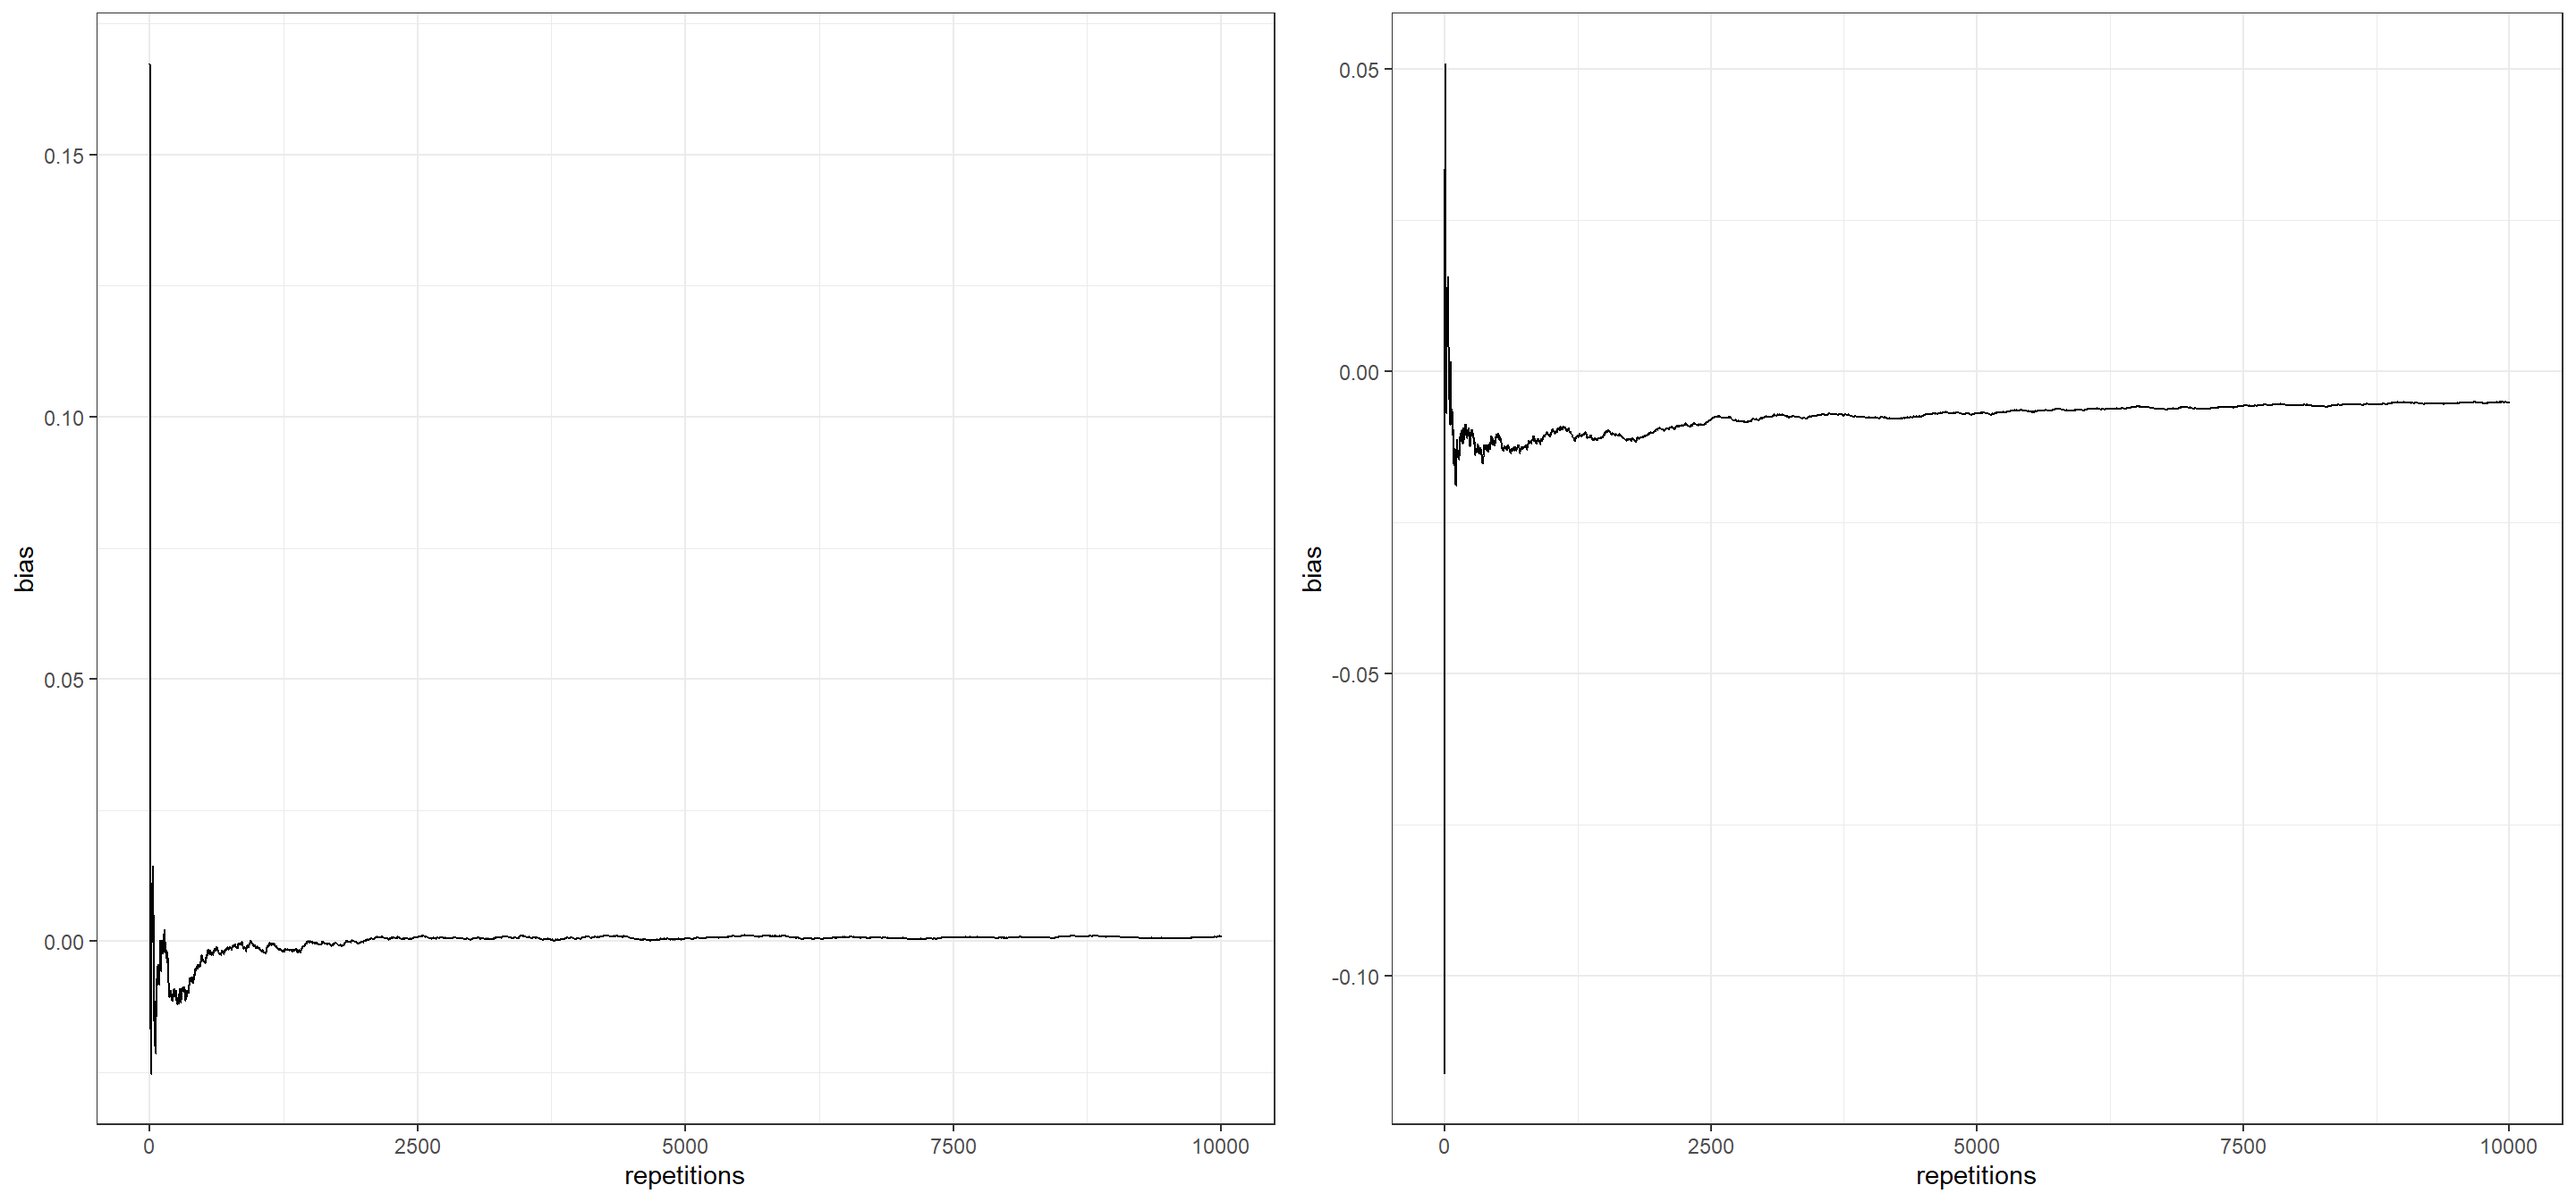
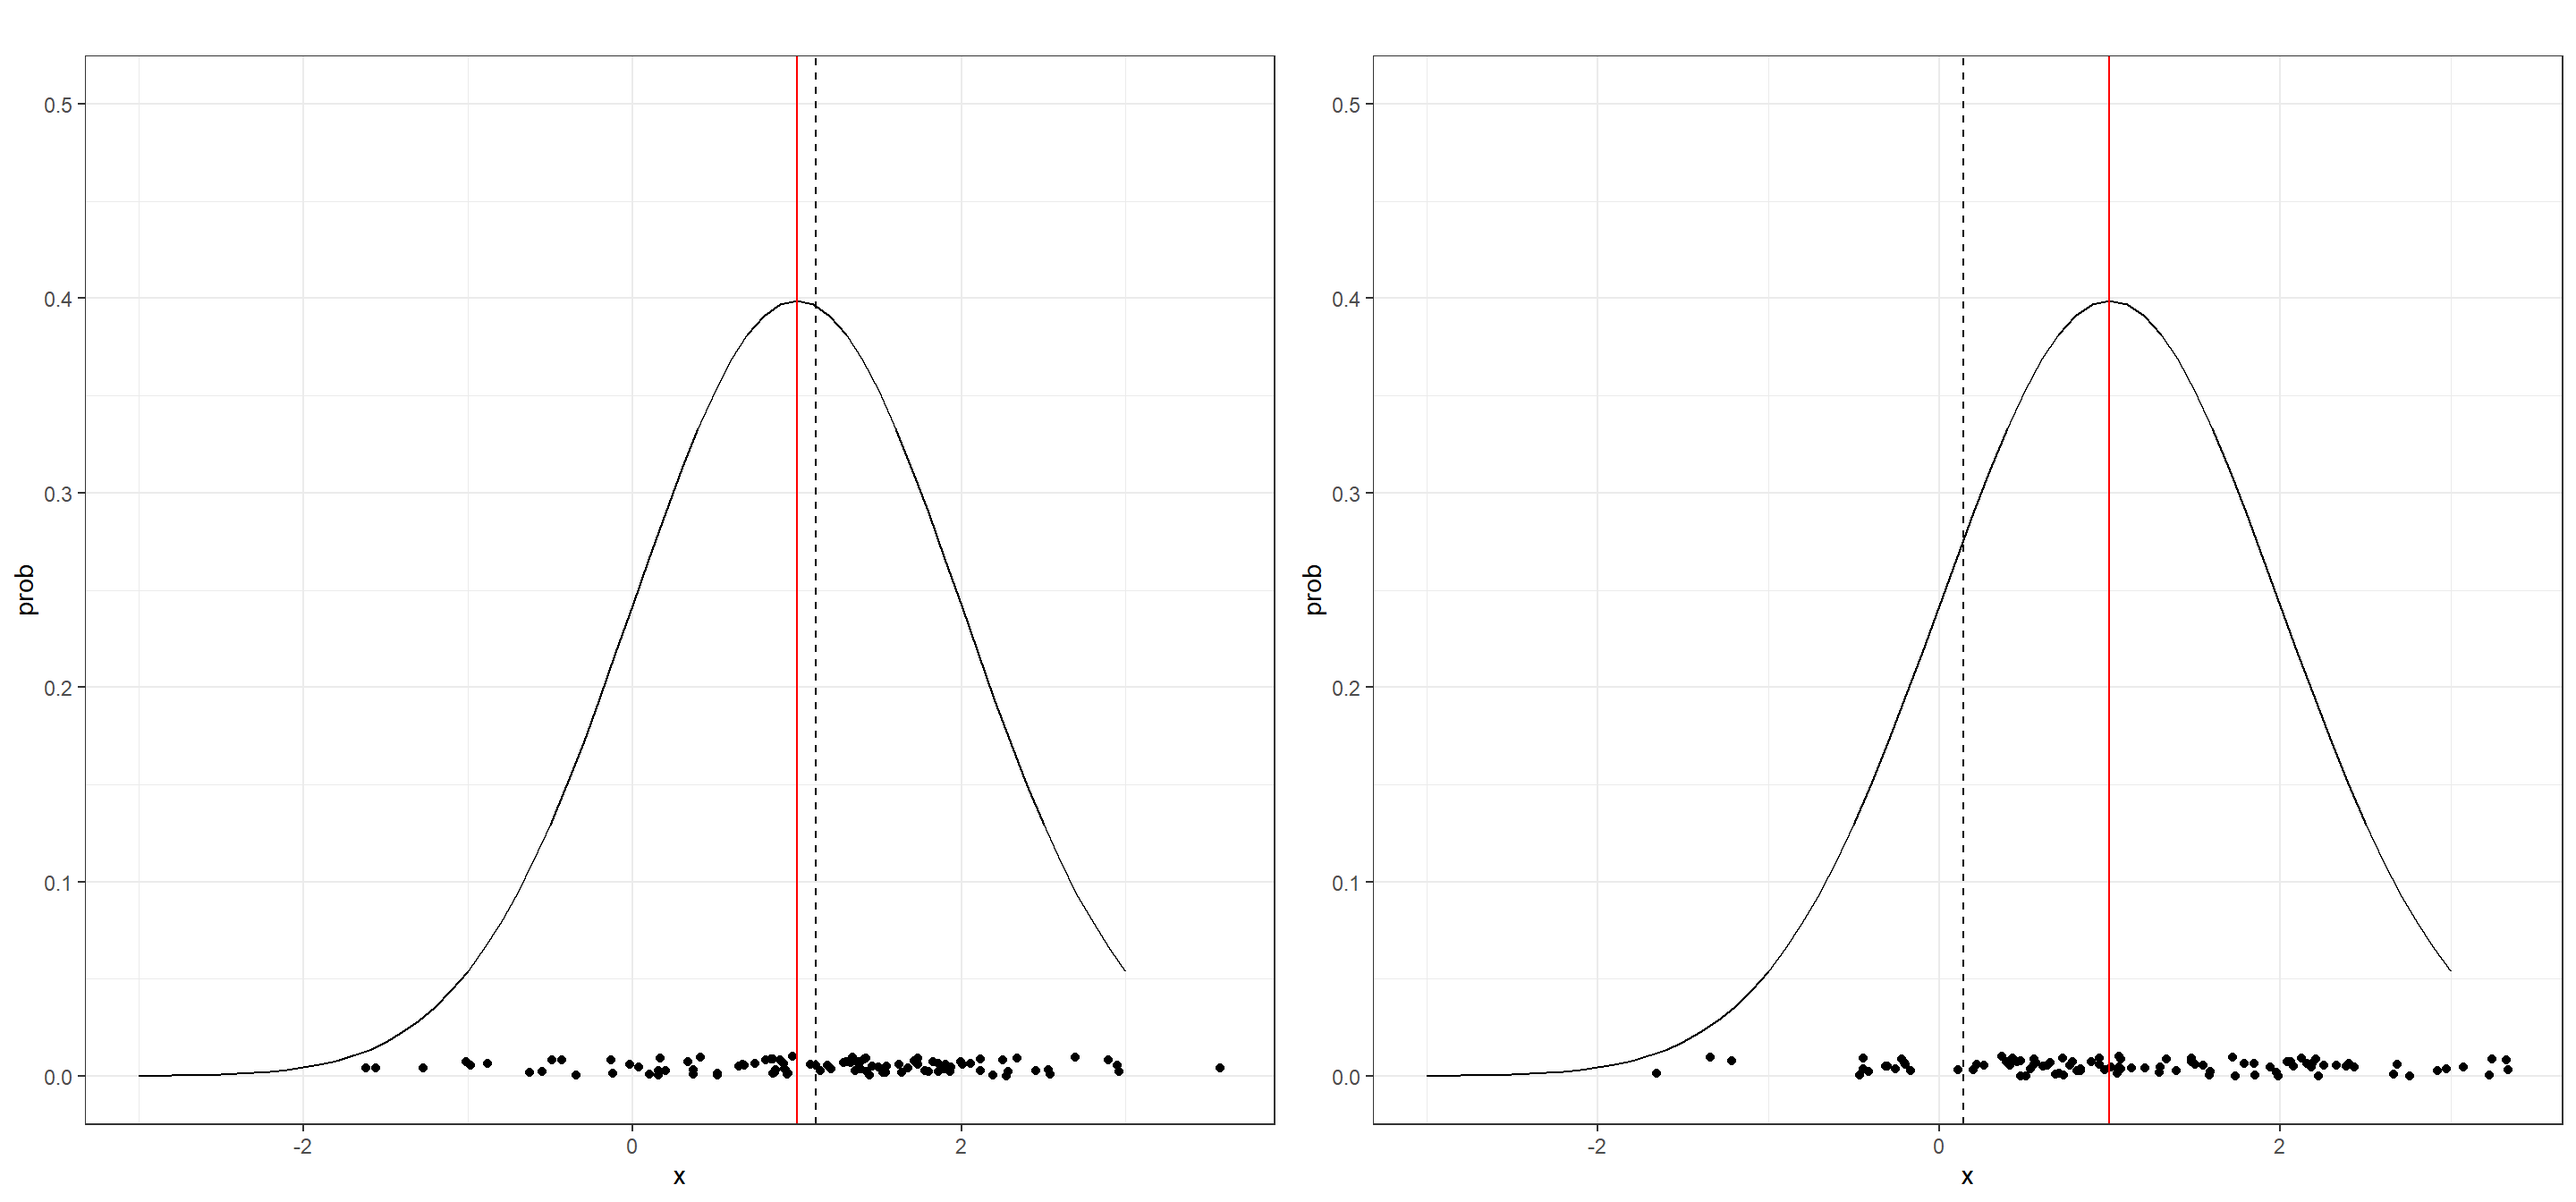
clase04

diff --git a/XS3310-I24_04.html b/XS3310-I24_04.html
@@ -501,11 +501,11 @@ f_{X_{\left(1\right)}}\left(x\right) = n\left[1-F_{X}\left(x\right)\right]^{n-1}
 </div>
 </div>
 
-<img data-src="XS3310-I24_04_files/figure-revealjs/unnamed-chunk-1-1.png" style="width:100.0%" class="r-stretch"></section>
+<img data-src="XS3310-I24_04_files/figure-revealjs/unnamed-chunk-2-1.png" style="width:100.0%" class="r-stretch"></section>
 <section id="sesgo-asintótico" class="slide level2">
 <h2>Sesgo asintótico</h2>
 
-<img data-src="XS3310-I24_04_files/figure-revealjs/unnamed-chunk-2-1.png" width="1440" class="r-stretch"></section>
+<img data-src="XS3310-I24_04_files/figure-revealjs/unnamed-chunk-3-1.png" width="1440" class="r-stretch"></section>
 <section id="error-cuadrático-medio-ecm" class="slide level2">
 <h2>Error Cuadrático Medio (ECM)</h2>
 <p><strong>Definicion:</strong> Error cuadrático medio. Supongamos que <span class="math inline">\(\hat{\theta}\)</span> es un estimador de un parámetro <span class="math inline">\(\theta\)</span>, se define el <em>error cuadrático medio</em> de <span class="math inline">\(\hat{\theta}\)</span>, denotado por <span class="math inline">\(ECM(\hat{\theta}) = E\left[\left(\hat{\theta}-\theta\right)^2\right]\)</span></p>
@@ -582,9 +582,9 @@ Var(\hat{\theta}_{2}) &amp;= Var\left(\frac{5n+1}{5n}X_{(n)}\right) = \frac{\lef
 </section>
 <section id="eficiencia-5" class="slide level2">
 <h2>Eficiencia</h2>
-<p>Podemos apreciar la eficiencia relativa de estos dos estimadores en la Figura 2. Los puntos negros vacios representan a <span class="math inline">\(\hat{\theta}_1\)</span> mientras que los puntos azules rellenos representan a <span class="math inline">\(\hat{\theta}_2\)</span>. Podemos observar como estos segundos tienen puntos en general más próximos al verdadero valor de <span class="math inline">\(\theta\)</span> que los primeros, por lo tanto son relativamente más eficientes.</p>
+<p>En la siguiente figura, se observa <span class="math inline">\(\hat{\theta}_1\)</span> y <span class="math inline">\(\hat{\theta}_2\)</span> calculados de 100 muestras independientes. En dicha simnulación, se supone que <span class="math inline">\(\theta=5\)</span> y <span class="math inline">\(n=45\)</span>. Podemos observar como la eficiencia de los dos estimadores.</p>
 
-<img data-src="figs/eficienciarelativa.jpg" class="r-stretch"></section>
+<img data-src="XS3310-I24_04_files/figure-revealjs/unnamed-chunk-4-1.png" width="672" class="r-stretch"></section>
 <section id="eficiencia-6" class="slide level2">
 <h2>Eficiencia</h2>
 <p>En general, para buscar la eficiencia al estimar un parámetro se requiere determinar el estimador insesgado <span class="math inline">\(\hat{\theta}\)</span> que tiene variancia mínima.</p>
@@ -620,7 +620,7 @@ Var(\hat{\theta}_{2}) &amp;= Var\left(\frac{5n+1}{5n}X_{(n)}\right) = \frac{\lef
 <ol start="2" type="1">
 <li>Sean <span class="math inline">\(X_1, . . . , X_n, X_{n + 1}, . . . , X_{n+m}\)</span> variables aleatorias independientes e idénticamente distribuidas con densidad Normal de media <span class="math inline">\(\mu\)</span> y varianza <span class="math inline">\(\sigma^2_X\)</span>. Se desea estimar <span class="math inline">\(\mu\)</span>, pero los valores individuales de las variables se han extraviado y se dispone sólo de las medias:</li>
 </ol>
-<p><span class="math inline">\(\bar{X_1}=\frac{1}{n}\sum_{i=1}^{n}X_i\)</span>, <span class="math inline">\(\bar{X_2}=\frac{1}{m}\sum_{i=n+1}^{n+m}X_i\)</span></p>
+<p><span class="math display">\[\bar{X_1}=\frac{1}{n}\sum_{i=1}^{n}X_i,~~~ \bar{X_2}=\frac{1}{m}\sum_{i=n+1}^{n+m}X_i\]</span></p>
 <p>Para integrar las dos fuentes de información se utiliza un estimador de la forma <span class="math inline">\(\hat{X} = \lambda \bar{X_1} + (1 − \lambda)\bar{X_2}\)</span>, donde <span class="math inline">\(0 \leq \lambda \leq 1\)</span>. Probar que un estimador de este tipo es insesgado para <span class="math inline">\(\mu\)</span> indicando además qué valor define el mejor <span class="math inline">\(\lambda\)</span> de todos ellos.</p>
 </section>
 <section id="ejercicios-2" class="slide level2">
